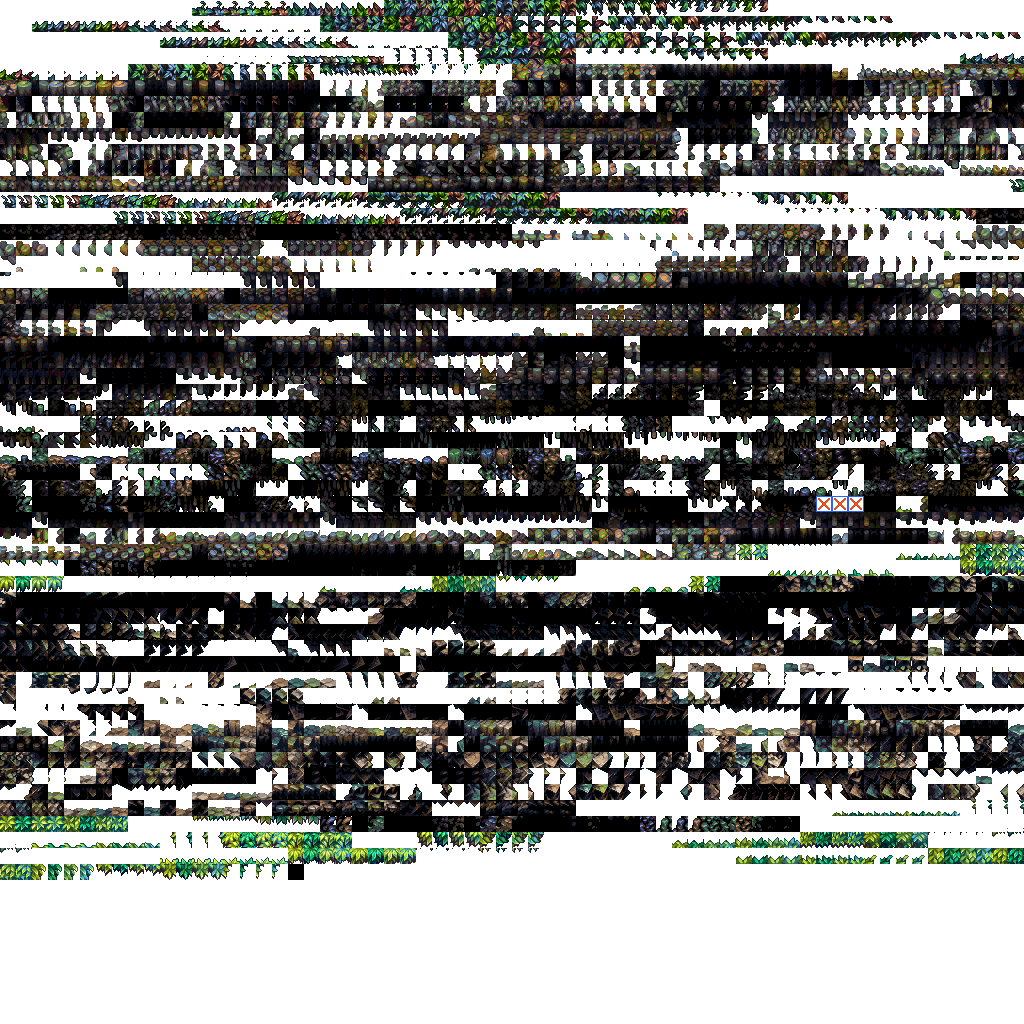
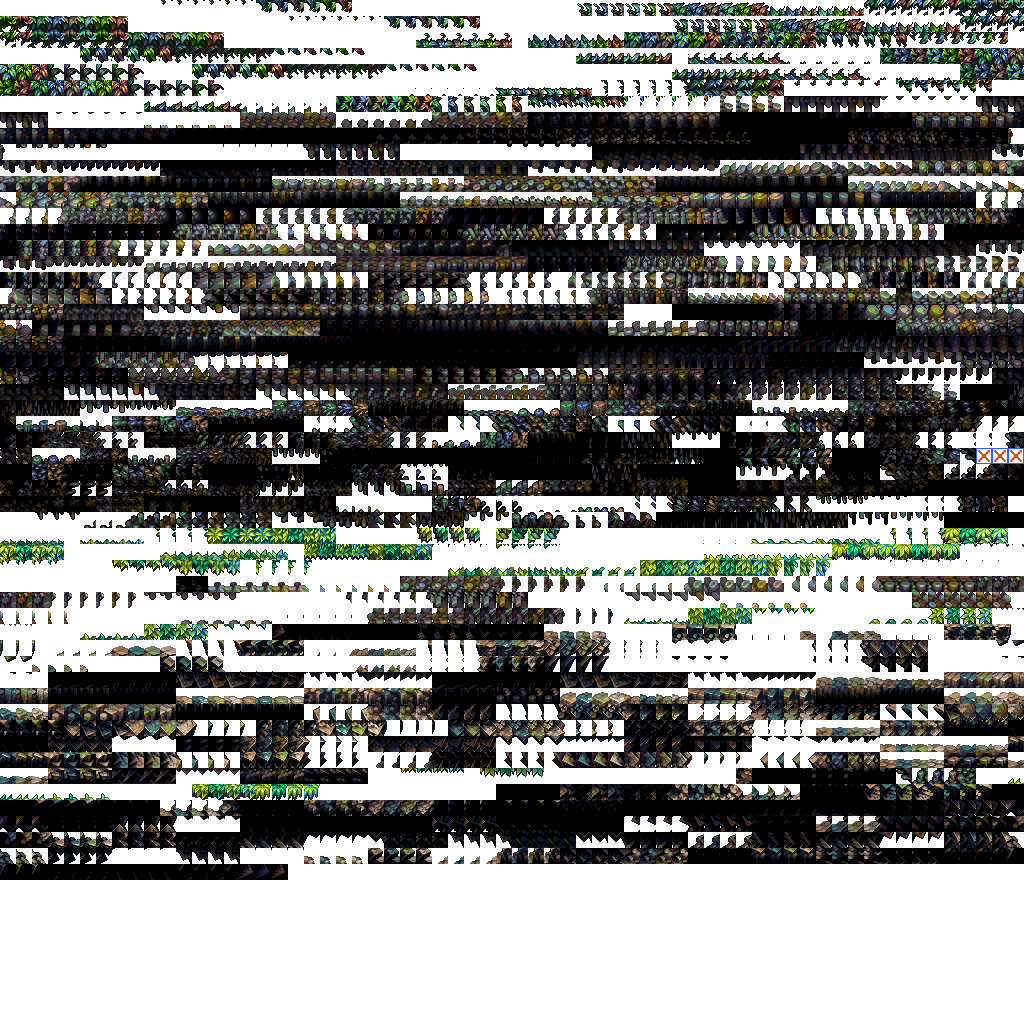
made tile patterns on interior walls work again

diff --git a/src/level_object.cpp b/src/level_object.cpp
@@ -290,7 +290,7 @@ level_object::level_object(variant node)
 		tiles_str = tiles_variant.as_string();
 	}
 
-	std::vector<std::string> tile_variations = util::split(tiles_str);
+	std::vector<std::string> tile_variations = util::split(tiles_str, '|');
 	foreach(const std::string& variation, tile_variations) {
 		if(!variation.empty() && variation[0] == '+') {
 			//a + symbol at the start of tiles means that it's just a base-10
